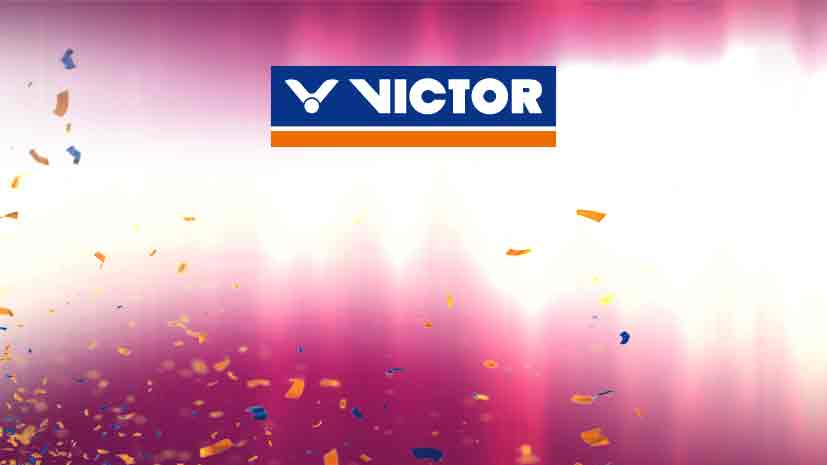
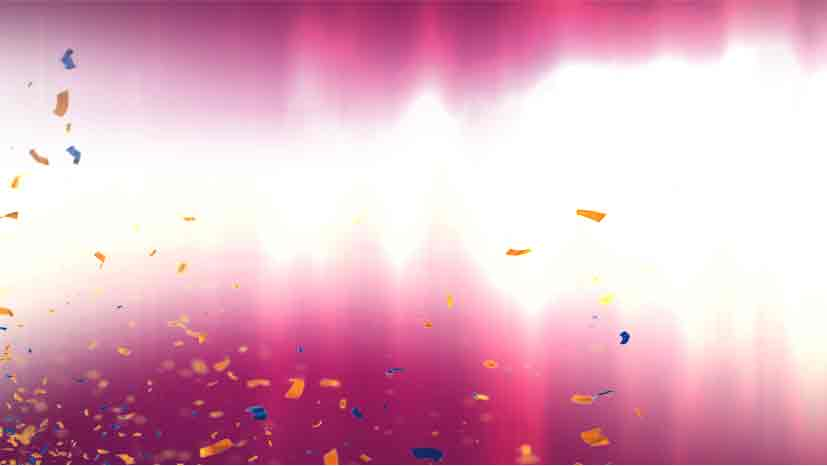
correct

diff --git a/public/static/css/style.css b/public/static/css/style.css
@@ -348,14 +348,22 @@
 			
 			/*7*/
 			.top_seven{
-				box-sizing: border-box;
+				/*box-sizing: border-box;*/
 				width: 100%;
-				height: auto;
-				min-height: 35%;
+				/*height: auto;*/
+				height: 35%;
 				background: url(../img/7-top.jpg)0 0 no-repeat;
-				background-size:contain;
-				padding:5% 0;
+				background-size:100% 100%;
+				/*padding:5% 0;*/
+				position: relative;
 				overflow: hidden;
+			}
+			.top_seven .logo{
+				display: block;
+				width: 35%;
+				left:32%;
+				top:13%;
+				position: absolute;
 			}
 			.top_seven h2{
 				font-size: 0.23rem;
@@ -385,6 +393,7 @@
 				margin-top: 3%;
 				margin-bottom: 0.05rem;
 				padding-left: 7%;
+				text-align: left;
 			}
 			.footer_seven .title{
 				width: 32%;

diff --git a/resources/views/users/conference.blade.php b/resources/views/users/conference.blade.php
@@ -2,7 +2,7 @@
     <body style="overflow-x: hidden;overflow-y: auto;">
     <script src="/static/js/common.js"></script>
     <div class="top_seven">
-
+        <img src="/static/img/logo.jpg" class="logo" alt="">
         <h2>2017 VICTOR品牌大會</h2>
         <h3>暨秋冬新品發布會</h3>
     </div>
